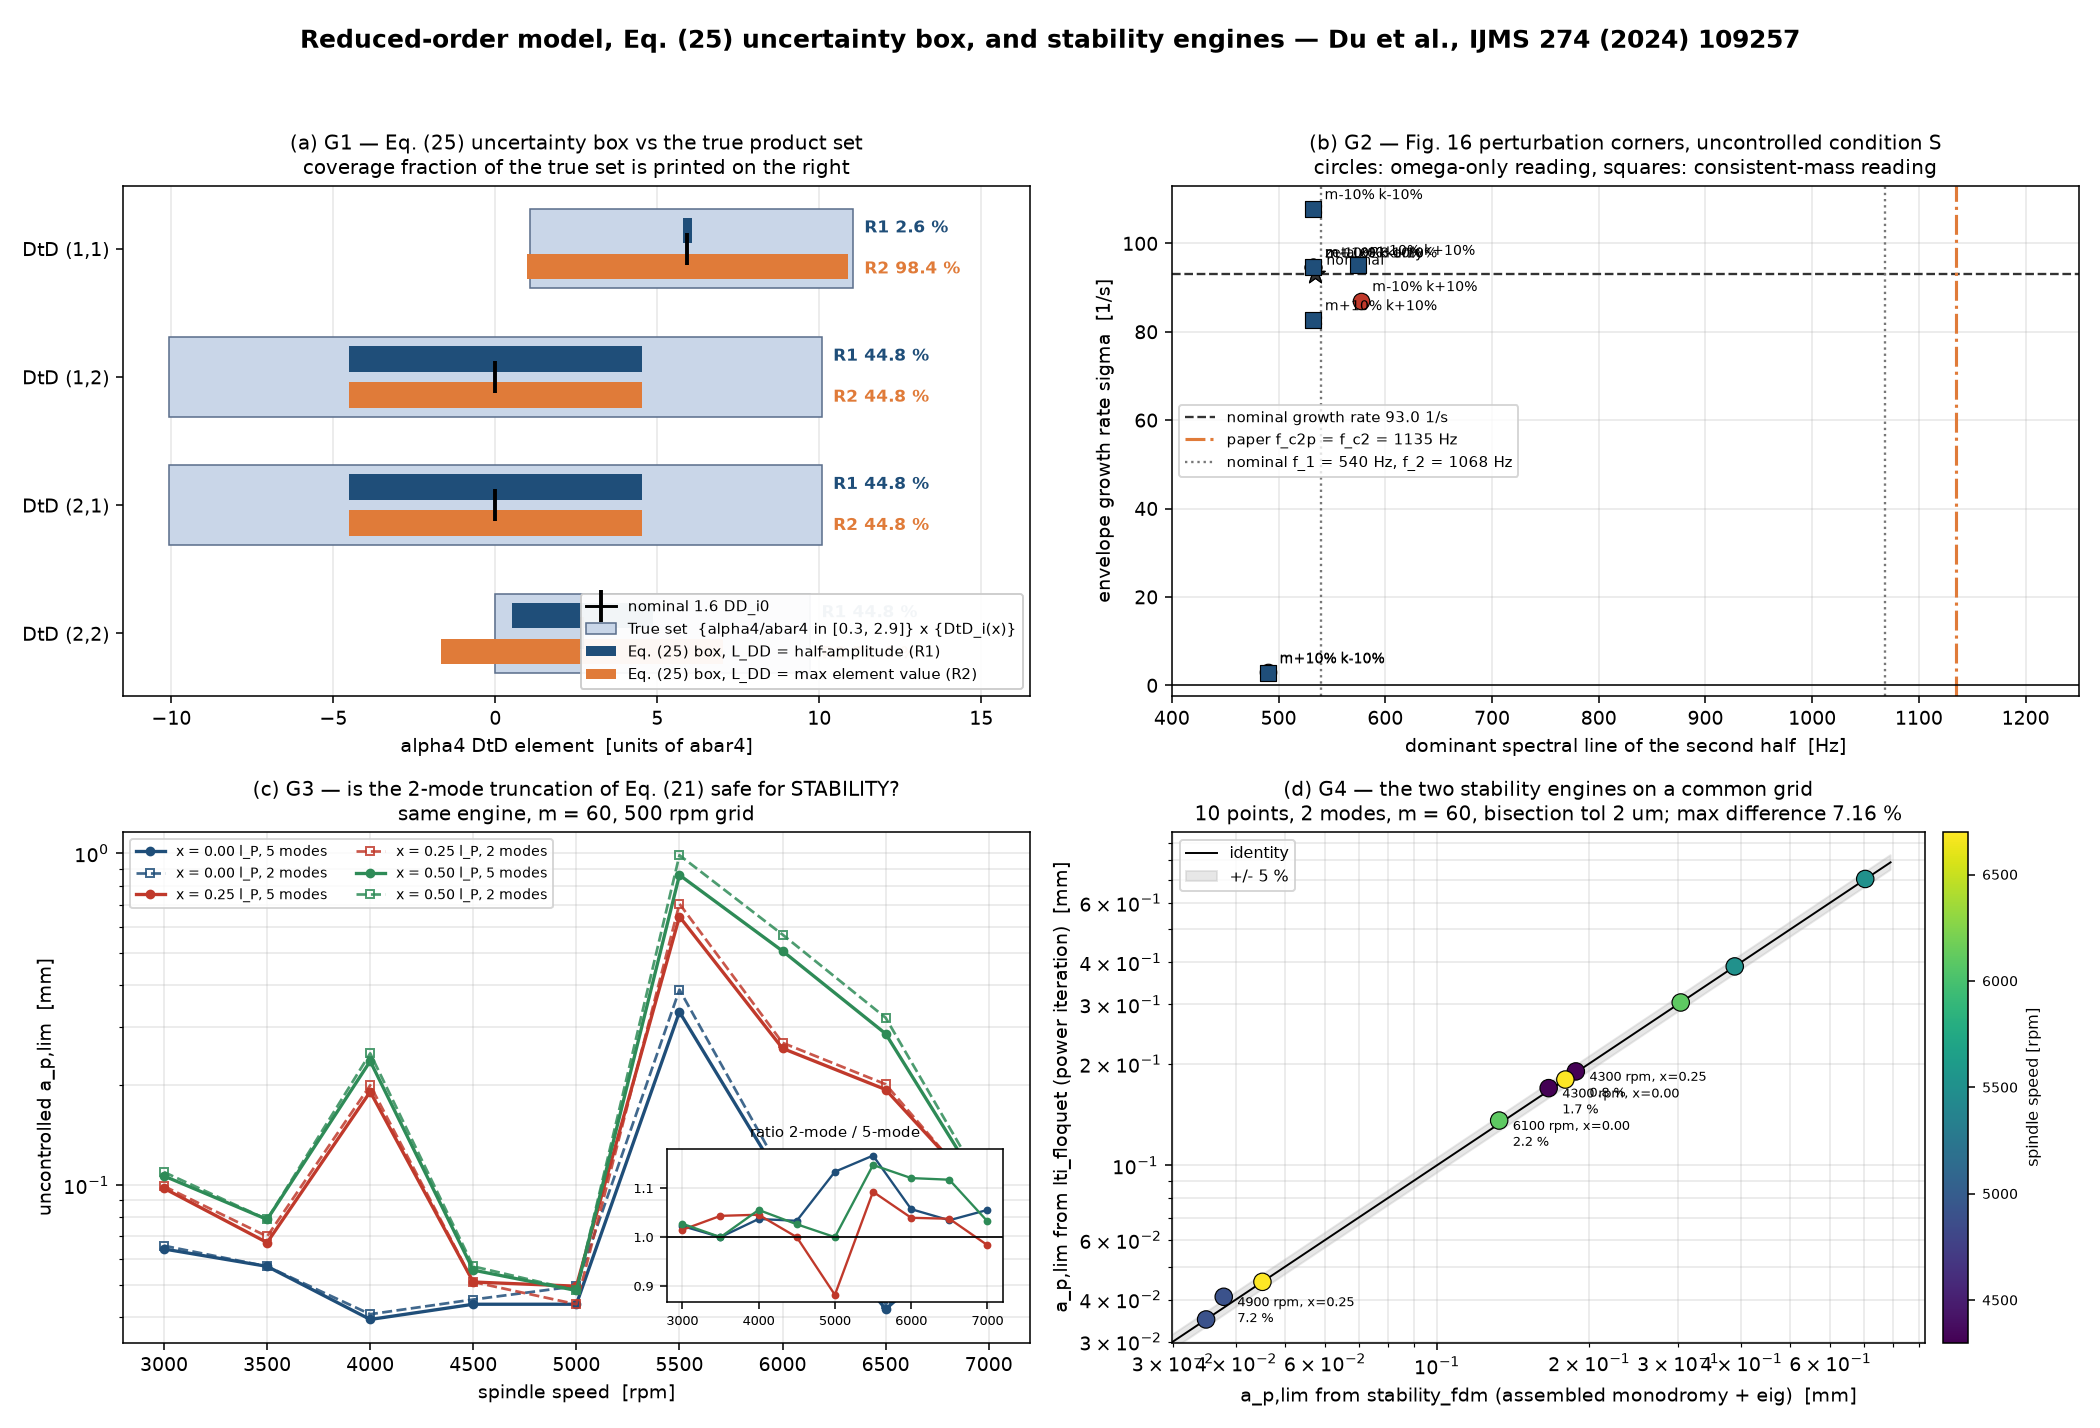
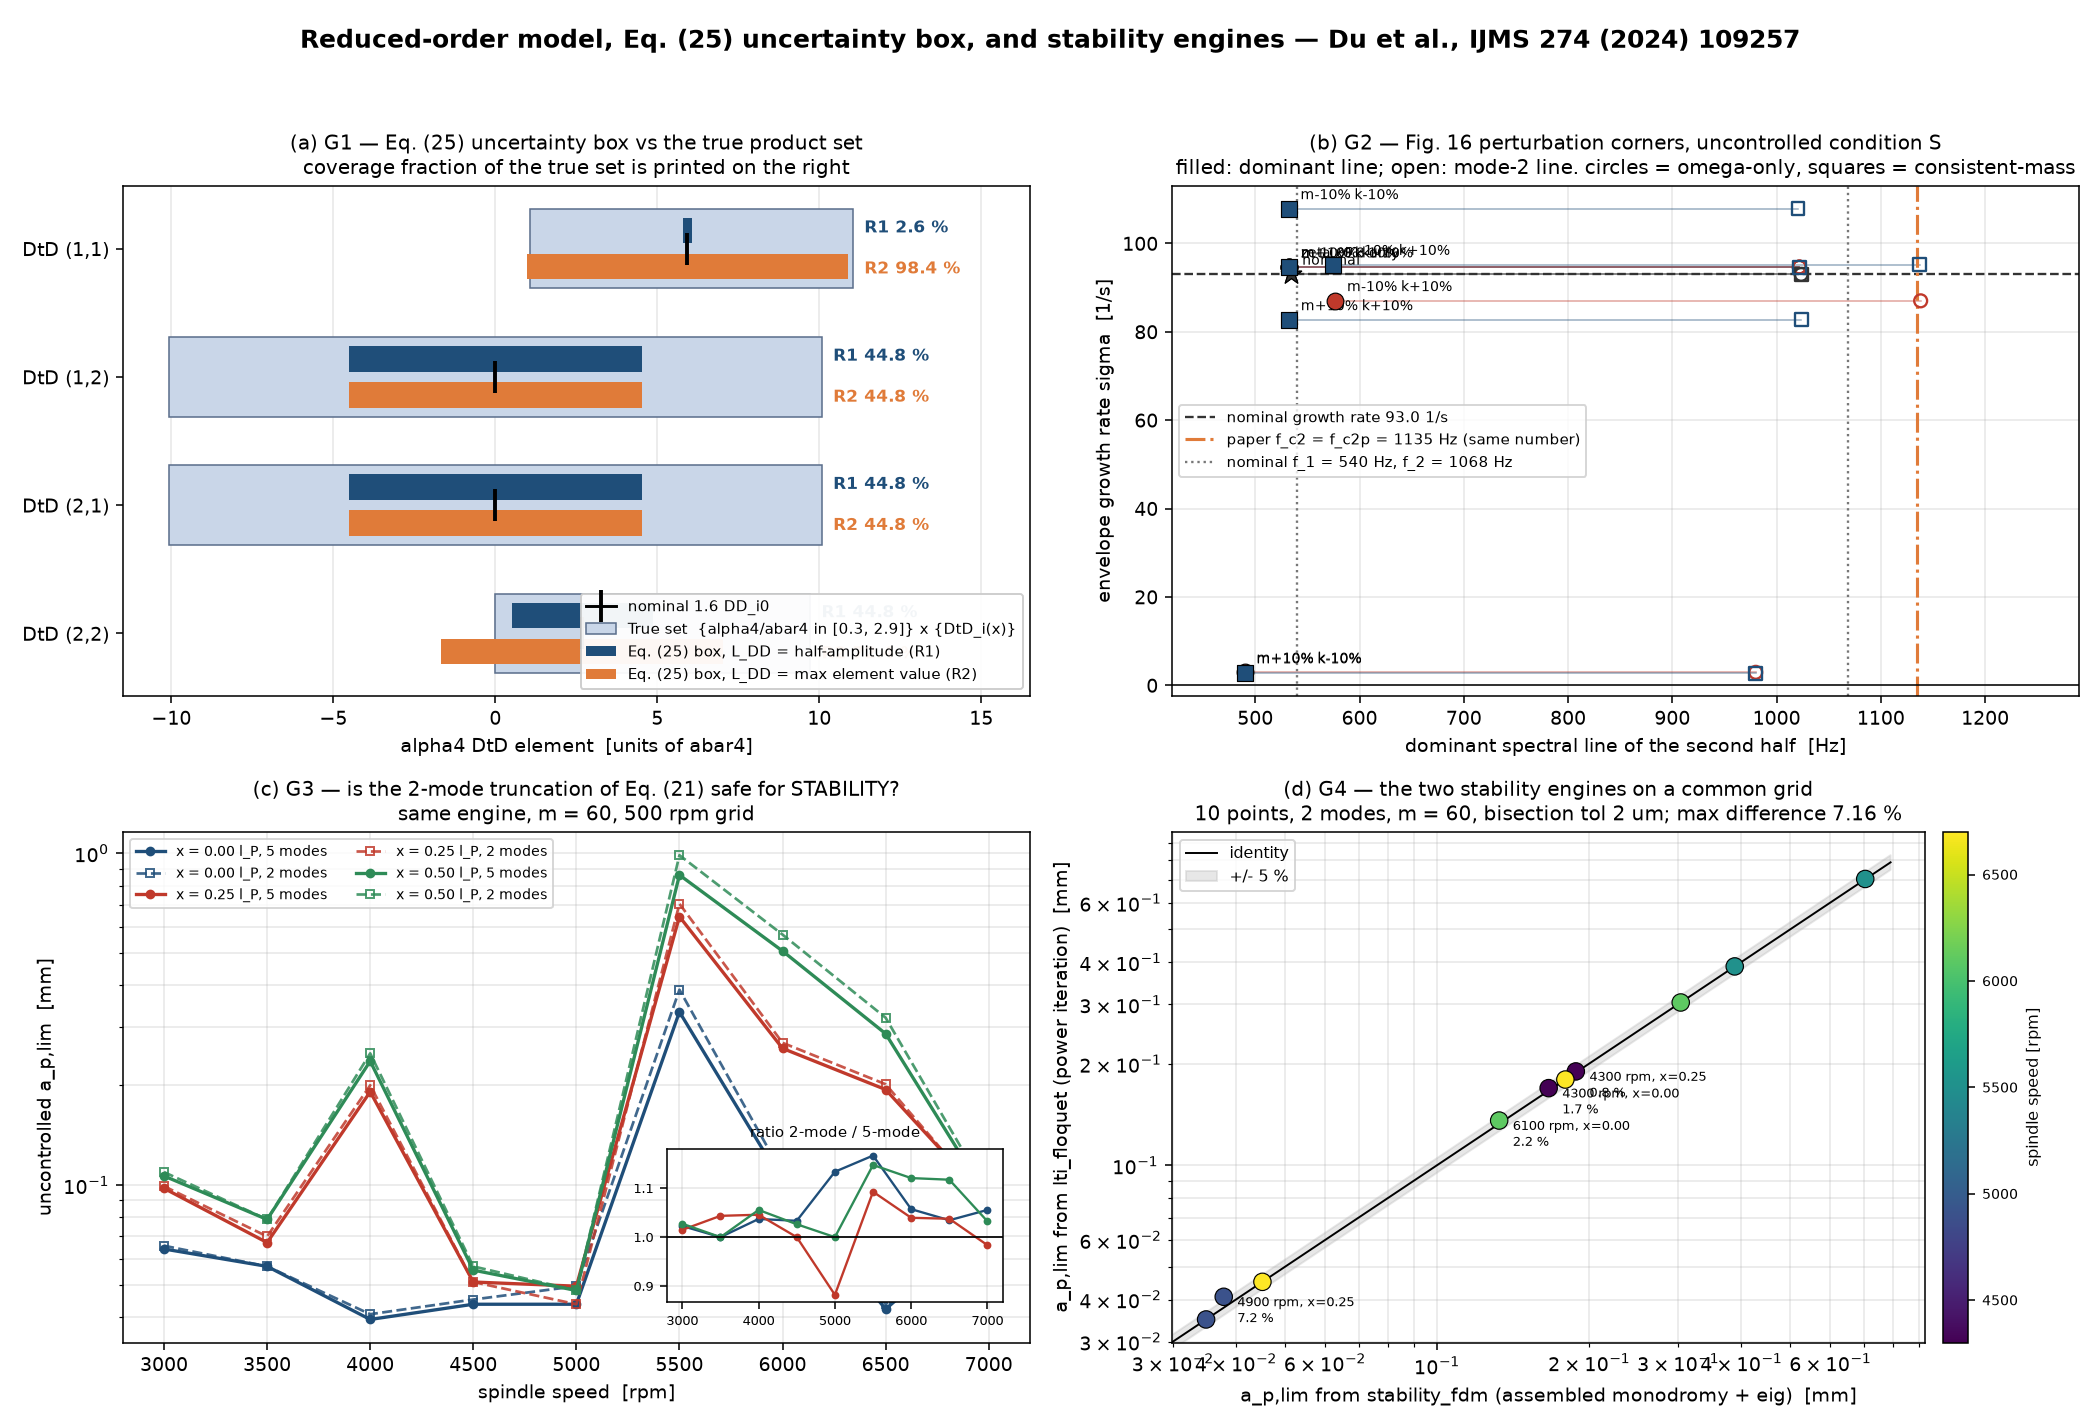
Adversarial check pass on verification 20
The checking agent re-ran the script and applied its presentation fixes; the
figure is regenerated from the current code.

Claude-Session: https://claude.ai/code/session_01KiDVLqVjXy7HphtFysvDFZ

diff --git a/verification/20_reduction_and_uncertainty.py b/verification/20_reduction_and_uncertainty.py
@@ -166,8 +166,10 @@ def hann_spectrum(t, y, fmax=3000.0, pad=8):
     return f[m], np.abs(Y[m]) * 1e6
 
 
-def top_lines(f, A, k=3, min_sep=25.0):
-    """k plus grandes raies separees d'au moins min_sep Hz."""
+def top_lines(f, A, k=3, min_sep=120.0):
+    """k plus grandes raies separees d'au moins min_sep Hz. min_sep doit
+    depasser la largeur du lobe principal de Hann (4/duree ~ 100 Hz sur la
+    seconde moitie), sinon on ne liste que les flancs d'un meme pic."""
     order = np.argsort(A)[::-1]
     out = []
     for i in order:
@@ -194,6 +196,16 @@ def envelope_growth(t, y, tau, lo=10e-6, hi=1e-3):
     c = np.polyfit(tb[m], np.log(eb[m]), 1)
     r2 = float(np.corrcoef(tb[m], np.log(eb[m]))[0, 1] ** 2)
     return float(c[0]), r2, int(m.sum())
+
+
+def peak_near(f, A, f0, half=100.0):
+    """Plus grande valeur du spectre dans la fenetre f0 +/- half, et sa
+    position : reponse directe a la question "y a-t-il une raie a f0 ?"."""
+    m = (f >= f0 - half) & (f <= f0 + half)
+    if not np.any(m):
+        return np.nan, 0.0
+    i = int(np.argmax(A[m]))
+    return float(f[m][i]), float(A[m][i])
 
 
 def interval_overlap(a, b):
@@ -232,7 +244,7 @@ print(' plaque NUE (Fig. 7)      f [Hz] : '
 print(' plaque de commande       f [Hz] : '
       + '  '.join('%7.1f' % v for v in plate.freq_n[:5])
       + '   (calage MESURE, Tab. 4)')
-print(' zeta [%%]                        : '
+print(' zeta [%]                         : '
       + '  '.join('%7.2f' % v for v in 100 * plate.zeta_modes[:5]))
 print(' condition S : %.0f tr/min, a_e = %.2f mm, a_p = %.2f mm, '
       'f_z = %.3f mm/dent' % (RPM_S, AE * 1e3, AP_S * 1e3, FZ * 1e3))
@@ -385,12 +397,16 @@ def run_g2(tag, dm, dk, zs, consistent):
     q = perturbed_plate(plate, ws, zs)
     _, rho = lf.is_stable(q, RPM_S, AP_S, 0.0, None, n_modes=5, m=60,
                           coeff_scale=cs)
+    # raie du MODE 2 : plus grand pic dans une fenetre autour du f_2 perturbe
+    # (c'est elle que le papier appelle f_c2 / f_c2p)
+    f2p = float(plate.freq_n[1] * ws)
+    f2l, a2l = peak_near(f, A, f2p, 0.15 * f2p)
     return dict(tag=tag, ws=ws, sigma=sig, r2=r2, npt=npt,
                 t5=r['t_div'] if r['diverged'] else None,
                 ymax=float(np.abs(y).max()),
                 lines=lines, rho=rho, sig_fl=float(np.log(rho) / TAU_S),
                 f2=float(plate.freq_n[1] * ws), f1=float(plate.freq_n[0] * ws),
-                A1135=float(np.interp(F_C2P, f, A)), Amax=float(A.max()))
+                f2line=f2l, a2line=a2l, Amax=float(A.max()))
 
 
 g2 = {}
@@ -402,10 +418,10 @@ for read_tag, cons in (('L-omega', False), ('L-coherente', True)):
                            dm, dk, 0.8, cons))
     g2[read_tag] = rows
 
-for read_tag in ('L-omega', 'L-coherente'):
+for jj, read_tag in enumerate(('L-omega', 'L-coherente')):
     rows = g2[read_tag]
     print('\n ' + SUB)
-    print(' Table G2-%s — lecture %s' % (read_tag[:1].upper(), read_tag))
+    print(' Table G2-%s — lecture %s' % ('ab'[jj], read_tag))
     print(' ' + SUB)
     print(' case              w/w0    f_2      sigma_t   R^2    t(5mm)'
           '   max|y|   rho_Fl  sigma_Fl   dominant line')
@@ -433,28 +449,44 @@ for read_tag in ('L-omega', 'L-coherente'):
             verdict = 'diverge MOINS vite (%.1f %% de temps en plus)' \
                 % (100 * (r['t5'] / ref['t5'] - 1))
         print('   %-16s %s' % (r['tag'], verdict))
+    nf = sum(1 for r in rows[2:]
+             if r['t5'] is not None and r['t5'] < ref['t5'])
+    print('   => %d coin(s) sur 4 divergent PLUS vite que le nominal ;'
+          ' %d ne diverge(nt) pas du tout.'
+          % (nf, sum(1 for r in rows[2:] if r['t5'] is None)))
 
 print('\n ' + SUB)
-print(' Table G2c — les trois plus grandes raies et le contenu a %.0f Hz'
-      % F_C2P)
+print(' Table G2c — raies dominantes (separees d au moins 120 Hz, largeur du')
+print('  lobe de Hann) et RAIE DU MODE 2 (plus grand pic dans f_2 +/- 15 %),')
+print('  qui est ce que le papier nomme f_c2 / f_c2p')
 print(' ' + SUB)
 print(' lecture       case              raie 1        raie 2        raie 3'
-      '     A(1135 Hz)/A_max')
+      '     mode-2 line   ecart a 1135 Hz')
 print(' ' + SUB)
 for read_tag in ('L-omega', 'L-coherente'):
     for r in g2[read_tag]:
         ln = '  '.join('%6.0f Hz:%5.0f' % (f, a) for f, a in r['lines'])
-        print(' %-13s %-16s %s   %6.2f %%'
-              % (read_tag, r['tag'], ln, 100 * r['A1135'] / r['Amax']))
+        ln += '   ' * (3 - len(r['lines']))
+        print(' %-13s %-16s %s  %6.1f Hz:%5.0f   %+6.1f %%'
+              % (read_tag, r['tag'], ln, r['f2line'], r['a2line'],
+                 100 * (r['f2line'] / F_C2P - 1)))
 print(' ' + SUB)
-best = min((r for tg in g2 for r in g2[tg]
-            for f, a in r['lines']),
-           key=lambda r: min(abs(f - F_C2P) for f, _ in r['lines']))
-bf = min(best['lines'], key=lambda p: abs(p[0] - F_C2P))
-print(' raie la plus proche de %.0f Hz sur tous les cas : %.1f Hz (%.0f um,'
-      % (F_C2P, bf[0], bf[1]))
-print(' soit %.0f %% du pic dominant) dans le cas "%s".'
-      % (100 * bf[1] / best['Amax'], best['tag']))
+best = min((r for tg in g2 for r in g2[tg]),
+           key=lambda r: abs(r['f2line'] - F_C2P))
+print(' raie de mode 2 la plus proche de %.0f Hz sur tous les cas : %.1f Hz'
+      % (F_C2P, best['f2line']))
+print(' (%+.1f %%, %.0f um = %.0f %% du pic dominant), cas "%s".'
+      % (100 * (best['f2line'] / F_C2P - 1), best['a2line'],
+         100 * best['a2line'] / best['Amax'], best['tag']))
+print(' Au nominal la raie de mode 2 est a %.1f Hz (%+.1f %% de 1135 Hz).'
+      % (g2['L-omega'][0]['f2line'],
+         100 * (g2['L-omega'][0]['f2line'] / F_C2P - 1)))
+print(' MAIS aucun cas ne fait de 1135 Hz la raie DOMINANTE : le pic reste sur')
+print(' le mode 1 (534 -> 577 Hz), comme deja etabli au nominal par le script')
+print(' 14 (534 Hz contre les 1135 Hz publies, -53 %).')
+print(' NB coin non divergent : sigma_t > 0 alors que rho_Fl < 1 — la bande de')
+print(' regression [10 um, 1 mm] y capte la MONTEE FORCEE du transitoire et')
+print(' non une croissance de broutement ; c est rho_Fl qui fait foi.')
 
 # ===========================================================================
 # G3 — TRONCATURE A DEUX MODES ET STABILITE
@@ -549,32 +581,51 @@ for rpm in RPM_G4:
 print('\n ' + SUB)
 print(' Table G4 — a_p,lim [mm] et rayon spectral au milieu des deux limites')
 print(' ' + SUB)
-print('  rpm   x/l_P   fdm(eig)  floquet(pow)   |diff|/max  |diff|/tol'
+print('  rpm   x/l_P   fdm(eig)  floquet(pow)  |diff|  |diff|  |diff|'
       '   rho(eig)  rho(pow)  ecart')
+print('                  [mm]        [mm]        [um]    /max    /tol'
+      '                        rho')
 print(' ' + SUB)
 for r in rows4:
-    print(' %5.0f  %5.2f  %9.5f %13.5f %11.2e %10.2f %10.5f %9.5f %6.2f %%'
-          % (r['rpm'], r['fr'], r['a'] * 1e3, r['b'] * 1e3, r['rel'],
-             r['dtol'], r['rho_a'], r['rho_b'], 100 * r['rrel']))
+    print(' %5.0f  %5.2f  %9.5f %12.5f %8.2f %7.4f %7.2f %10.5f %9.5f %6.2f %%'
+          % (r['rpm'], r['fr'], r['a'] * 1e3, r['b'] * 1e3,
+             abs(r['a'] - r['b']) * 1e6, r['rel'], r['dtol'],
+             r['rho_a'], r['rho_b'], 100 * r['rrel']))
 print(' ' + SUB)
 rel_max = max(r['rel'] for r in rows4)
+abs_max = max(abs(r['a'] - r['b']) for r in rows4)
 tol_max = max(r['dtol'] for r in rows4)
 rrel_max = max(r['rrel'] for r in rows4)
 n_ident = sum(1 for r in rows4 if r['dtol'] <= 1.0)
-print(' ecart relatif MAX sur a_p,lim : %.2e (%.2f %%)'
+print(' ecart relatif MAX sur a_p,lim : %.2e (%.2f %%) — atteint la ou'
       % (rel_max, 100 * rel_max))
-print(' ecart MAX en unites de la tolerance de bissection (%.0f um) : %.2f'
-      % (AP_TOL * 1e6, tol_max))
+print('   a_p,lim est le plus PETIT, ou le relatif est trompeur ;')
+print(' ecart ABSOLU MAX : %.2f um, soit %.2f fois la tolerance de'
+      % (abs_max * 1e6, tol_max))
+print('   bissection (%.0f um).' % (AP_TOL * 1e6))
 print(' %d points sur %d identiques a la tolerance de bissection pres'
       % (n_ident, len(rows4)))
 print(' ecart relatif MAX sur rho au meme a_p : %.2e (%.3f %%)'
       % (rrel_max, 100 * rrel_max))
-print(' -> %s'
-      % ('les deux moteurs sont d accord a la tolerance de bissection pres'
-         if tol_max <= 1.0 else
-         'les deux moteurs DIFFERENT au-dela de la tolerance de bissection'
-         ' sur %d point(s) : l iteration de puissance change de verdict pres'
-         ' de la frontiere' % sum(1 for r in rows4 if r['dtol'] > 1.0)))
+n_dis = sum(1 for r in rows4 if r['dtol'] > 1.0)
+n_hi = sum(1 for r in rows4 if r['b'] > r['a'] + AP_TOL)
+print(' -> %s' % ('les deux moteurs sont d accord a la tolerance de bissection'
+                  ' pres sur TOUS les points'
+                  if tol_max <= 1.0 else
+                  'les deux moteurs DIFFERENT au-dela de la tolerance de'
+                  ' bissection sur %d point(s) sur %d' % (n_dis, len(rows4))))
+if n_dis:
+    print('    Direction : sur ces %d points l iteration de puissance rend un'
+          % n_dis)
+    print('    a_p,lim %s (%d/%d), avec rho(pow) < rho(eig) au meme a_p : elle'
+          % ('PLUS GRAND' if n_hi >= n_dis - n_hi else 'PLUS PETIT',
+             n_hi, n_dis))
+    print('    sous-estime legerement rho pres de la frontiere et est donc,')
+    print('    la, NON CONSERVATIVE. L ecart sur rho reste <= %.2f %%, mais'
+          % (100 * rrel_max))
+    print('    rho(a_p) est quasi plat au voisinage de 1 (drho/da_p faible),')
+    print('    de sorte que %.2f %% sur rho deplace la limite de %.1f um.'
+          % (100 * rrel_max, abs_max * 1e6))
 print('\n ECART A DING et al. (2010) [79], la reference citee pour la Fig. 6')
 print(' ("A full-discretization method for prediction of milling stability",')
 print(' Int J Mach Tool Manu 2010;50:502-9) :')
@@ -646,14 +697,19 @@ ax = axes[0, 1]
 mk = {'L-omega': 'o', 'L-coherente': 's'}
 for read_tag in ('L-omega', 'L-coherente'):
     rows = g2[read_tag]
+    col = CB['p2'] if read_tag == 'L-omega' else CB['p5']
     for r in rows:
         f0 = r['lines'][0][0]
+        f2l = r['f2line']
         nominal = (r['tag'] == 'nominal')
-        ax.scatter([f0], [r['sigma']], s=110 if nominal else 72,
+        c = CB['nom'] if nominal else col
+        ax.plot([f0, f2l], [r['sigma']] * 2, '-', color=c, lw=0.8,
+                alpha=0.45, zorder=2)
+        ax.scatter([f0], [r['sigma']], s=120 if nominal else 74,
                    marker='*' if nominal else mk[read_tag],
-                   color=CB['nom'] if nominal else
-                   (CB['p2'] if read_tag == 'L-omega' else CB['p5']),
-                   edgecolor='k', lw=0.6, zorder=3)
+                   color=c, edgecolor='k', lw=0.6, zorder=4)
+        ax.scatter([f2l], [r['sigma']], s=44, marker=mk[read_tag],
+                   facecolor='none', edgecolor=c, lw=1.2, zorder=4)
         if read_tag == 'L-omega' or r['tag'] not in ('nominal',
                                                      'zeta x0.8 only'):
             ax.annotate(r['tag'].replace('dm', 'm').replace('dk', 'k'),
@@ -663,7 +719,7 @@ ref = g2['L-omega'][0]
 ax.axhline(ref['sigma'], color=CB['nom'], ls='--', lw=1.2,
            label='nominal growth rate %.1f 1/s' % ref['sigma'])
 ax.axvline(F_C2P, color=CB['r2'], ls='-.', lw=1.6,
-           label='paper f_c2p = f_c2 = 1135 Hz')
+           label='paper f_c2 = f_c2p = 1135 Hz (same number)')
 ax.axvline(plate.freq_n[0], color='#777777', ls=':', lw=1.2,
            label='nominal f_1 = %.0f Hz, f_2 = %.0f Hz'
            % (plate.freq_n[0], plate.freq_n[1]))
@@ -672,9 +728,9 @@ ax.axhline(0.0, color='k', lw=0.8)
 ax.set_xlabel('dominant spectral line of the second half  [Hz]')
 ax.set_ylabel('envelope growth rate sigma  [1/s]')
 ax.set_title('(b) G2 — Fig. 16 perturbation corners, uncontrolled '
-             'condition S\ncircles: omega-only reading, squares: '
-             'consistent-mass reading', fontsize=10.5)
-ax.set_xlim(400, 1250)
+             'condition S\nfilled: dominant line; open: mode-2 line. '
+             'circles = omega-only, squares = consistent-mass', fontsize=10.5)
+ax.set_xlim(420, 1290)
 ax.grid(alpha=0.3)
 ax.legend(fontsize=7.6, loc='center left')
 
@@ -750,19 +806,22 @@ print('     rend valable partout ; R2 ne sauve que l element (1,1).')
 print(' G2  divergence plus rapide qu au nominal : %d coin(s) sur 4 (lecture'
       % sum(1 for r in g2['L-omega'][2:]
             if r['t5'] is not None and r['t5'] < g2['L-omega'][0]['t5']))
-print('     L-omega), %d sur 4 (lecture L-coherente) ; %d coin(s) ne divergent'
-      % (sum(1 for r in g2['L-coherente'][2:]
-             if r['t5'] is not None and r['t5'] < g2['L-coherente'][0]['t5']),
-         sum(1 for tg in g2 for r in g2[tg][2:] if r['t5'] is None)))
-print('     pas du tout en 0.30 s. Raie dominante : mode 1, jamais 1135 Hz.')
+print('     L-omega), %d sur 4 (lecture L-coherente) ; le coin (dm +10 %%,'
+      % sum(1 for r in g2['L-coherente'][2:]
+            if r['t5'] is not None and r['t5'] < g2['L-coherente'][0]['t5']))
+print('     dk -10 %%) ne diverge pas du tout (rho_Fl = %.4f < 1) dans les deux'
+      % g2['L-omega'][3]['rho'])
+print('     lectures. Raie dominante : mode 1 partout, jamais 1135 Hz.')
 print(' G3  ratio a_p,lim (2 modes / 5 modes) : moyen %.3f, pire %.3f a'
       % (ratio.mean(), ratio[iw]))
 print('     %.0f tr/min et x = %.2f l_P -> la troncature est NON CONSERVATIVE.'
       % (RPM_G3[iw[1]], POS_G3[iw[0]]))
-print(' G4  ecart max entre moteurs %.2f %% sur a_p,lim et %.3f %% sur rho ;'
-      % (100 * rel_max, 100 * rrel_max))
-print('     %d/%d points identiques a la tolerance de bissection pres.'
+print(' G4  ecart max entre moteurs %.2f %% (%.1f um) sur a_p,lim et %.3f %%'
+      % (100 * rel_max, abs_max * 1e6, 100 * rrel_max))
+print('     sur rho au meme a_p ;', end=' ')
+print('%d/%d points identiques a la tolerance de'
       % (n_ident, len(rows4)))
+print('     bissection pres.')
 print('\n figure : %s' % FIGPATH)
 print(' temps total : %.1f s' % (time.time() - t_start))
 print(SEP)
